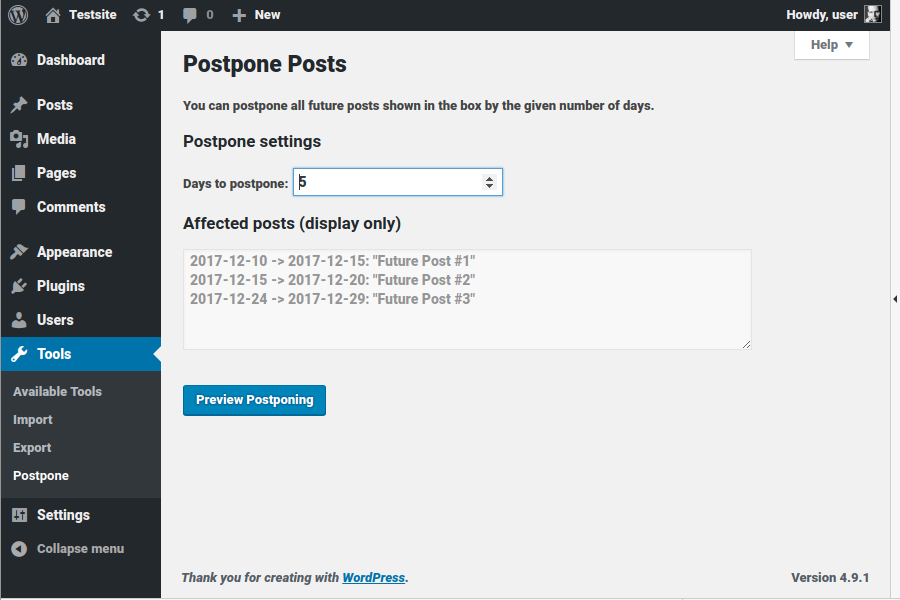
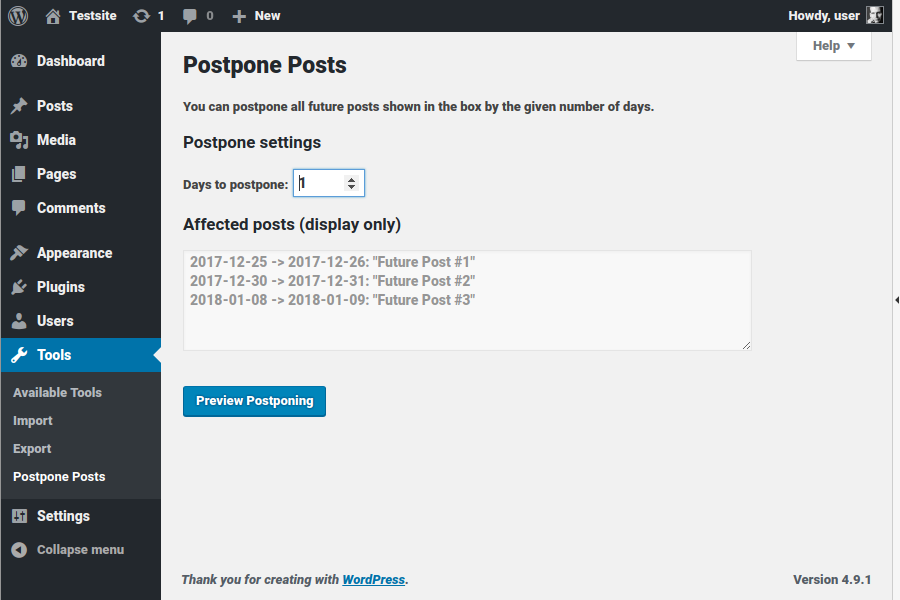
updated version information for 0.2.0, screenshots etc.

diff --git a/postpone-posts/postpone-posts.php b/postpone-posts/postpone-posts.php
@@ -3,7 +3,7 @@
 Plugin Name: Postpone Posts
 Plugin URI; https://github.com/ekleinod/postpone-posts
 Description: Postpones all future (planned) posts by a selectable number of days.
-Version: 0.1.0
+Version: 0.2.0
 Author: Ekkart Kleinod
 Author URI: http://www.edgesoft.de/
 License: GPL-3.0

diff --git a/changelog.md b/changelog.md
@@ -5,16 +5,18 @@ All notable changes to this project will be documented in this file.
 The format is based on [Keep a Changelog](http://keepachangelog.com/en/1.0.0/)
 and this project adheres to [Semantic Versioning](http://semver.org/spec/v2.0.0.html).
 
-## [Unreleased]
+## [0.2.0] - 2017-12-17
 
 ### Added
 
 - settings page for setting default value of days to postpone
+- screenshot for settings page
 
 ### Changed
 
 - formatting error messages correctly
 - specific error messages for invalid values
+- updated screenshots
 
 ### Deprecated
 
@@ -37,4 +39,3 @@ and this project adheres to [Semantic Versioning](http://semver.org/spec/v2.0.0.
 - readmes
 - changelogs
 - development files
-

diff --git a/readme.md b/readme.md
@@ -15,11 +15,10 @@ All development files reside in the folder "dev".
 Short details about the structure of the git repository:
 The branches are constructed regarding the git branching model of http://nvie.com/posts/a-successful-git-branching-model/
 
-This means, there are always at least three branches:
+This means, there are always at least two branches:
 
 1. `master` - contains released versions
 2. `develop` - main synchronisation branch for feature, release, and hotfix branches
-3. `feature/work` - main working branch for development
 
 Additionally, the following branches my occur:
 
